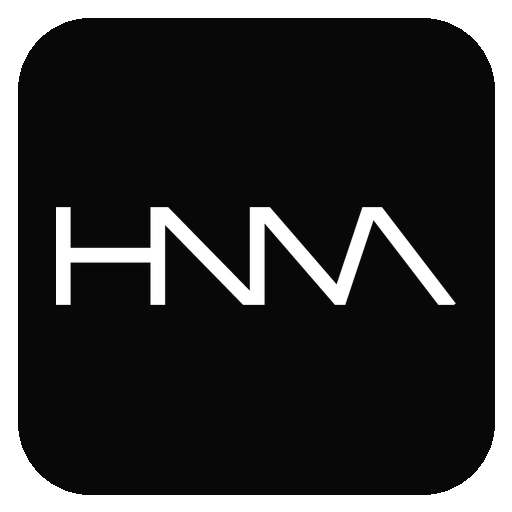
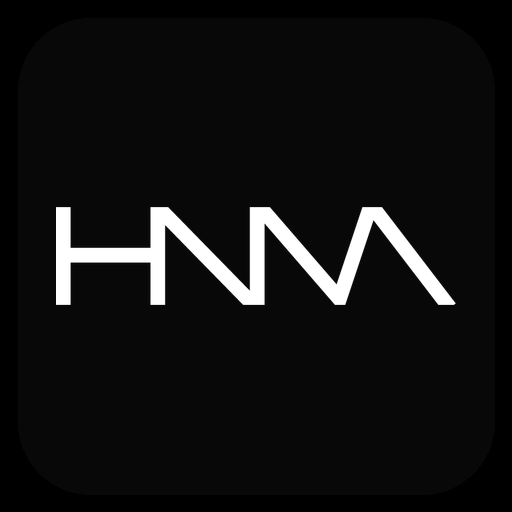
Add files via upload

Changed region(s): [[0.0, 0.0, 1.0, 1.0]]

diff --git a/app/privacy/page.tsx b/app/privacy/page.tsx
@@ -44,7 +44,7 @@ export default function PrivacyPage() {
           <article>
             <h2>문의</h2>
             <p>
-              Privacy Contact: <a href="mailto:contact@hnmspace.com">contact@hnmspace.com</a>
+              <a href="mailto:contact@hnmspace.com">contact@hnmspace.com</a>
             </p>
           </article>
         </div>

diff --git a/app/layout.tsx b/app/layout.tsx
@@ -34,6 +34,7 @@ export const metadata: Metadata = {
   icons: {
     icon: [
       { url: '/favicon.ico', sizes: 'any' },
+      { url: '/favicon-48x48.png', type: 'image/png', sizes: '48x48' },
       { url: '/favicon-32x32.png', type: 'image/png', sizes: '32x32' },
       { url: '/favicon-16x16.png', type: 'image/png', sizes: '16x16' },
     ],

diff --git a/app/terms/page.tsx b/app/terms/page.tsx
@@ -44,7 +44,7 @@ export default function TermsPage() {
           <article>
             <h2>문의</h2>
             <p>
-              Contact: <a href="mailto:contact@hnmspace.com">contact@hnmspace.com</a>
+              <a href="mailto:contact@hnmspace.com">contact@hnmspace.com</a>
             </p>
           </article>
         </div>

diff --git a/REVISION_NOTES.md b/REVISION_NOTES.md
@@ -225,3 +225,12 @@ git push
 - Marketing: 전략 / 콘텐츠 / 캠페인.
 - Commerce: 상품 기획 / 판매 채널 / 운영 관리.
 - Distribution: 소싱 / 공급 관리 / 채널 운영.
+
+
+## v6.18 — Google favicon + legal contact cleanup
+
+- Rebuilt favicon assets from the official master favicon.
+- Removed all transparent outer pixels by using a full black square background.
+- Added favicon-48x48.png to metadata for search-engine compatibility.
+- Updated favicon.ico, 16/32/48 PNGs, Apple touch icon, 192/512 app icons, and hnm-favicon.png.
+- Removed redundant “Contact:” and “Privacy Contact:” prefixes from the legal pages.
